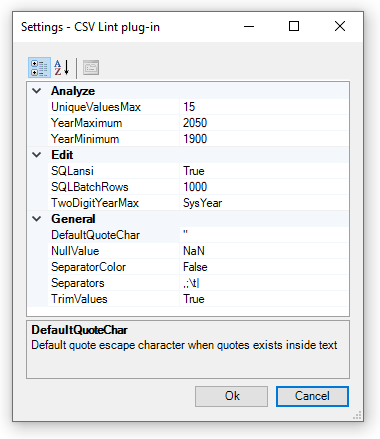
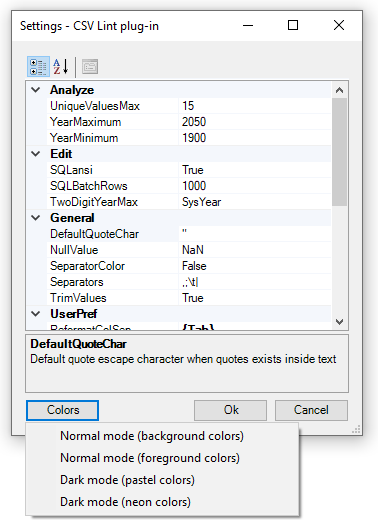
Documentation link, settings form color list, update version
Documentation link, settings form color list, update version

Changed region(s): [[0.0, 0.0, 0.9894, 1.0]]

diff --git a/CSVLintNppPlugin/PluginInfrastructure/SettingsBase.cs b/CSVLintNppPlugin/PluginInfrastructure/SettingsBase.cs
@@ -148,6 +148,32 @@ namespace CsvQuery.PluginInfrastructure
                 .ToDictionary(x => x[0], x => x[1]);
         }
 
+        private void colorButton_Click(object sender, EventArgs e)
+        {
+            Button btn = (Button)sender;
+            ContextMenu cm = btn.ContextMenu;
+
+            cm.Show(btn, new Point(0, btn.Height)); // offset from the edge of your button
+        }
+
+        private void colorMenuItem_Click(object sender, EventArgs e)
+        {
+            string name = ((MenuItem)sender).Text;
+
+            //var msg = "Change the CSVLint syntax highlighting colors?:\n" + name  + "\n\n(Note: You'll need to close and restart Notepad++ before the new colors take effect)";
+            var msg = "Change the CSV Lint syntax highlighting colors to\n" + name  + " ?\n\n(Note: You'll need to close and restart Notepad++ before the new colors take effect)";
+            if (MessageBox.Show(msg, "Confirm", MessageBoxButtons.YesNo, MessageBoxIcon.Question) == DialogResult.Yes)
+            {
+                //do something if YES
+                int idx = ((MenuItem)sender).Index;
+                Main.TryCreateLexerXml(idx, true);
+
+                // message
+                msg = "CSV Lint colors have been updated. The new colors will take effect when you restart Notepad++.";
+                MessageBox.Show(msg, "CSV Lint colors changed", MessageBoxButtons.OK, MessageBoxIcon.Information);
+            }
+        }
+
         /// <summary>
         /// Opens a window that edits all settings
         /// </summary>
@@ -155,6 +181,14 @@ namespace CsvQuery.PluginInfrastructure
         {
             // We bind a copy of this object and only apply it after they click "Ok"
             var copy = (Settings)MemberwiseClone();
+
+            // color popup menu
+            MenuItem[] mi = new MenuItem[4];
+            mi[0] = new MenuItem("Normal mode (background colors)", colorMenuItem_Click);
+            mi[1] = new MenuItem("Normal mode (foreground colors)", colorMenuItem_Click);
+            mi[2] = new MenuItem("Dark mode (pastel colors)", colorMenuItem_Click);
+            mi[3] = new MenuItem("Dark mode (neon colors)", colorMenuItem_Click);
+            ContextMenu cm = new ContextMenu(mi);
 
             var dialog = new Form
             {
@@ -195,7 +229,17 @@ namespace CsvQuery.PluginInfrastructure
                         AutoScaleMode = AutoScaleMode.Font,
                         AutoScaleDimensions = new SizeF(6F,13F),
                         SelectedObject = copy
-                    }
+                    },
+                    new Button
+                    {
+                        Name = "Colors",
+                        Text = "Colors",
+                        Anchor = AnchorStyles.Bottom | AnchorStyles.Left,
+                        Size = new Size(75, 23),
+                        Location = new Point(13, DEFAULT_HEIGHT - 23 - 13),
+                        UseVisualStyleBackColor = true,
+                        ContextMenu = cm
+                    },
                 }
             };
 
@@ -227,6 +271,7 @@ namespace CsvQuery.PluginInfrastructure
                 OnSettingsChanged(dialog, changesEventArgs);
                 dialog.Close();
             };
+            dialog.Controls["Colors"].Click += colorButton_Click;
 
             dialog.ShowDialog();
         }

diff --git a/CSVLintNppPlugin/CsvLint/CsvAnalyze.cs b/CSVLintNppPlugin/CsvLint/CsvAnalyze.cs
@@ -453,11 +453,11 @@ namespace CSVLint
             string strhead = (csvdef.ColNameHeader ? " (+1 header line)" : "");
 
             sb.Append("Analyze dataset\r\n");
+            sb.Append(string.Format("CSV Lint: v{0}\r\n", Main.GetVersion()));
             sb.Append(string.Format("File: {0}\r\n", FILE_NAME));
-            sb.Append(string.Format("Date: {0}\r\n", DateTime.Now.ToString("dd-MMM-yyyy HH:mm")));
+            sb.Append(string.Format("Date: {0}\r\n\r\n", DateTime.Now.ToString("dd-MMM-yyyy HH:mm")));
             sb.Append(String.Format("Data records: {0}{1}\r\n", lineCount, strhead));
             sb.Append(String.Format("Max.unique values: {0}\r\n", Main.Settings.UniqueValuesMax));
-            sb.Append(string.Format("CSV Lint: v{0}\r\n", Main.GetVersion()));
             sb.Append("\r\n");
 
 			// goal output, depending on data found:

diff --git a/CSVLintNppPlugin/Forms/AboutForm.cs b/CSVLintNppPlugin/Forms/AboutForm.cs
@@ -17,7 +17,7 @@ namespace Kbg.NppPluginNET
             lblTitle.Text += ver;
 
             // tooltip initialization
-            helperTip.SetToolTip(lnkGithub, "Open the CSVLint GitHub page (right-click to copy url)");
+            helperTip.SetToolTip(lnkGithub, "Open the documentation page (right-click to copy url)");
             helperTip.SetToolTip(lnkContact, "Send comments or suggestions (right-click to copy address)");
 
             DisplayEasterEgg();
@@ -140,7 +140,7 @@ namespace Kbg.NppPluginNET
             string urlcopy = url;
             if ((string)lbl.Tag == "0")
             {
-                url = "https://github.com/BdR76/CSVLint/";
+                url = "https://github.com/BdR76/CSVLint/tree/master/docs#csv-lint-plug-in-documentation";
                 urlcopy = url;
             }
             else

diff --git a/CSVLintNppPlugin/Forms/AboutForm.Designer.cs b/CSVLintNppPlugin/Forms/AboutForm.Designer.cs
@@ -81,7 +81,7 @@
             this.lnkGithub.TabIndex = 3;
             this.lnkGithub.TabStop = true;
             this.lnkGithub.Tag = "0";
-            this.lnkGithub.Text = "CSVLint on GitHub";
+            this.lnkGithub.Text = "Documentation && Help";
             this.lnkGithub.TextAlign = System.Drawing.ContentAlignment.TopCenter;
             this.lnkGithub.LinkClicked += new System.Windows.Forms.LinkLabelLinkClickedEventHandler(this.OnLinkClicked);
             // 

diff --git a/CSVLintNppPlugin/Properties/AssemblyInfo.cs b/CSVLintNppPlugin/Properties/AssemblyInfo.cs
@@ -32,5 +32,5 @@ using System.Runtime.InteropServices;
 // You can specify all the values or you can default the Build and Revision Numbers 
 // by using the '*' as shown below:
 // [assembly: AssemblyVersion("1.0.*")]
-[assembly: AssemblyVersion("0.4.2.0")]
-[assembly: AssemblyFileVersion("0.4.2.0")]
+[assembly: AssemblyVersion("0.4.3.0")]
+[assembly: AssemblyFileVersion("0.4.3.0")]

diff --git a/docs/readme.md b/docs/readme.md
@@ -33,8 +33,8 @@ such as datatype and width.
 
 The metadata is very important for the other functionality to work. When the
 content of the file and the metadata get out-of-sync, for example when editing
-the data file, the plug-in will detect the columns correctly. This can lead to
-unexpected results when reformatting or validating the data.
+the data file, the plug-in will detect the columns incorrectly. This can lead
+to unexpected results when reformatting or validating the data.
 
 The metadata is based on the `schema.ini` format and it is important for the
 edit options in the plug-in to work correctly. You can press "Refresh from
@@ -46,8 +46,8 @@ press the save icon (blue disk) to apply it before continuing.
 
 Press the "Refresh from Data" button the from the currently open data file.
 When a file is opened this auto-detection is also run once by default.
-
 When a file is opened the plug-in will:
+
 1) check for a `schema.ini` file in same folder as data file
 2) check if the `schema.ini` contains a section for the filename
 2) if no `schema.ini` or section found, then run "Refresh from data"
@@ -153,13 +153,13 @@ right. It will check the input data for the following errors:
 * Incorrect date format, example value "12/31/2020" when DateTimeFormat=dd/mm/yyyy
 
 Important note: If you've edited the data file, for example changed the column
-separator or added columns using the Split function, also update the metadata
-before validating. To make sure the reflects the current data file, either
-press "Refresh from data" of update it manually and save.
+separator or added columns using the Split function, make sure to also update
+the metadata before validating. Make sure the metadata reflects the current
+data file by either pressing "Refresh from data" or updating it manually and
+then saving it.
 
 Split column
 ------------
-
 Split values into new columns.
 
 ![CSV Lint split column dialog](/docs/csvlint_split_column.png?raw=true "CSV Lint plug-in split column dialog")
@@ -176,7 +176,7 @@ as a date value formated as `dd-mm-yyyy`, see some example results below:
 | visitdat   | visitdat (2) | visitdat (3) |
 |------------|--------------|--------------|
 | 15-04-2020 | 15-04-2020   |              |
-| 23-09-2019 | 23-09-2019   |              |
+| 23-05-2019 | 23-05-2019   |              |
 | 07-26-2021 |              | 07-26-2021   |
 | 18-09-2020 | 18-09-2020   |              |
 | noshow     |              | noshow       |
@@ -279,7 +279,7 @@ The output will contain the following information for each column.
 * DateTime range - the minimum and maximum datatime value, if any datetime values found
 * Integer range - the minimum and maximum integer value, if any integer values found
 * Decimal range - the minimum and maximum decimal value, if any decimal values found
-* Unique values - the minimum and maximum decimal value, if any decimal values found
+* Unique values - list of unique values, not shown when there are more than `UniqueValuesMax` unique values found (see settings)
 
 See report example for one single column below:
 
@@ -311,7 +311,7 @@ result by the new `count_unique` column.
 
 If the data is correct, it should list all participantId with a `count_unique`
 value of 3. Because it's sorted by `count_unique` you can check the beginning
-and end of the list to see if there are any participants with more or fewer
+and end of the list to see if there are any participants with fewer or more
 than 3 measurements.
 
 Convert to SQL
@@ -320,21 +320,28 @@ Convert the currently selected CSV file to an SQL script that creates a database
 table and inserts all records from the csv datafile into that table.
 The insert statement will be grouped in batches of X lines of csv data,
 see the `SQLBatchRows` setting. For compatibility with both mySQL or MS-SQL,
-the script will generate the column names as ``columnname`` or `[columnname]`
+the script will generate the column names as \`columnname\` or [columnname]
 depending on the `SQLansi` setting.
 
 See below for an example of an SQL insert script the plugin will generate:
 
-    CREATE TABLE csvdata_cardio(
-        [patid] integer,
-        [visitdat] datetime,
-        [labpth] numeric(5,1)
+    -- -------------------------------------
+    -- CSV Lint plug-in v0.4.2
+    -- File: cardio.txt
+    -- -------------------------------------
+    CREATE TABLE cardio(
+        `patid` integer,
+        `visitdat` datetime,
+        `labpth` numeric(5,1)
     );
 
-    insert into csvdata_cardio(
-        [patid],
-        [visitdat],
-        [labpth]
+    -- -------------------------------------
+    -- insert records 1 - 1000
+    -- -------------------------------------
+    insert into cardio(
+        `patid`,
+        `visitdat`,
+        `labpth`
     ) values
     (1, '2021-08-21', 10.8),
     (2, '2021-09-05', 143.5),
@@ -362,6 +369,7 @@ and they are stored in a settings file `%USERPROFILE%\AppData\Roaming\Notepad++\
 | SeparatorColor   | Include separator in syntax highlighting colors. Set to false and the separator characters are always white.    | false   |
 | Separators       | Preferred characters when automatically detecting the separator character. For special characters like tab, use \\t or \\u0009. | ,;\t| |
 | TrimValues       | Trim values before analyzing or editing (recommended).                                                          | true    |
+| UserPref section | Various settings for CSV Lint form defaults                                                                     |         |
 
 Syntax highlighting colors
 --------------------------
@@ -374,7 +382,7 @@ The color settings are stored in a `CSVLint.xml` file. There is no style
 select dialog, but you can edit the .xml file to select one of the four
 pre-defined styles.
 
-	%USERPROFILE%\AppData\Roaming\Notepad++\plugins\config\CSVLint.xml`
+	%USERPROFILE%\AppData\Roaming\Notepad++\plugins\config\CSVLint.xml
 
 The default xml file will contain 4 color schemes, with the other three
 commented-out, also see the [CSVLint.xml file here](https://github.com/BdR76/CSVLint/blob/master/config/CSVLint.xml).

diff --git a/readme.md b/readme.md
@@ -105,7 +105,6 @@ The CSV Lint plugin is work-in-progress, here is list of features I want to add 
 * ~~Convert datetime values to different formats~~
 * ~~Convert decimal symbol to point/comma~~
 * ~~Toggle between comma, semicolon, tab separated formats~~
-* Improve GUI instead of plain text
 * ~~Improve file reading, to process/edit large files (>1MB)~~
 * ~~Count unique values based on column(s)~~
 * ~~Allow format masks per individual column~~
@@ -113,16 +112,17 @@ The CSV Lint plugin is work-in-progress, here is list of features I want to add 
 * Support two-digit year date values
 * Support for currency/thousand separator "12.345,00" or "1,250,000.00" etc.
 * ~~Load/save schema.ini~~
-* Support FrictionlessData schema.json format
 * ~~Improve automatic datatype detection~~
 * ~~Add feature GUI click to jump to error line~~
+* Support code=label values (in schema.json?) + error check + replace-code-with-label
+* Support FrictionlessData schema.json format
+* Improve GUI instead of plain text
 * Add feature generate ~~scripts (SQL,~~ SPSS, Python(?), XML+column=xpath?)
 * ~~Syntax highlighting, display columns as [colors](https://community.notepad-plus-plus.org/topic/21124/c-adding-a-custom-styler-or-lexer-in-c-for-scintilla-notepad/)~~
 * Search for value in column, search next empty/non-empty in column
 * Search/replace in single column, multiple columns (option only replace n-th occurance? example "datetime(2008, 1, 1, 12, 59, 00)" replace ', ' with '-' or ':')
 * Search/replace only n-th occurance? Or only empty occurance?
 * ~~Split column into new column ("123/456" -> "123", "456")~~
-* Support code=label values (in schema.json?) + error check + replace-code-with-label
 
 Trouble shooting / Known issues
 -------------------------------
@@ -162,5 +162,6 @@ History
 26-sep-2021 - v0.4 performance improvement, save/load metadata, split column option, count unique values  
 17-oct-2021 - v0.4.1 various bugfixes  
 29-oct-2021 - v0.4.2 startup error "CSVLint.xml is missing" fixed, toggle toolbar icon, clean up settings  
+12-nov-2021 - v0.4.3 dark mode icons and colors, save form settings, documentation, bugfixes  
 
 BdR©2021 Free to use - send questions or comments: Bas de Reuver - bdr1976@gmail.com
